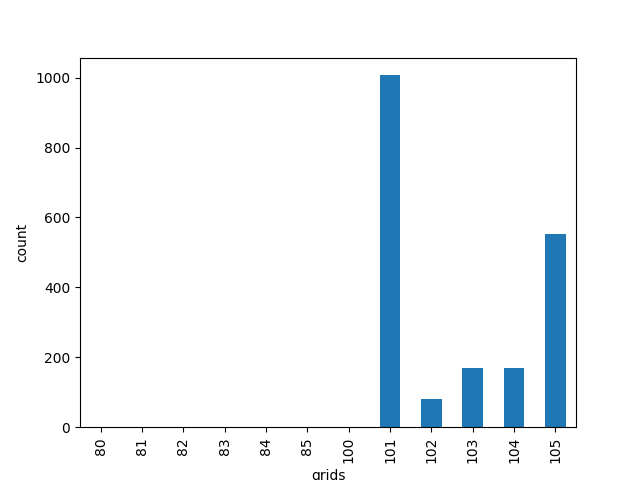
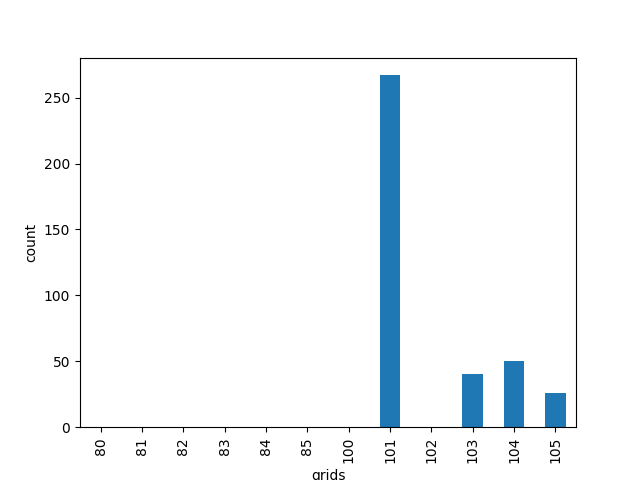
mod

diff --git a/assignment_2/frequency.py b/assignment_2/frequency.py
@@ -7,14 +7,10 @@ import matplotlib.pyplot as plt
 
 if __name__ == "__main__":
 
-    # d = {'1':0, "2":3}
-    # d['5'] = 3
-    # print(d)    
-
     d = {}
 
     s = datetime(2021,9,20)
-    e = datetime(2021,9,23)
+    e = datetime(2021,9,21)
     df = pd.read_csv("book_with_grids.csv")
     grids = [80, 81, 82, 83, 84, 85, 100, 101, 102, 103, 104, 105]
 
@@ -29,7 +25,8 @@ if __name__ == "__main__":
         count = 0
         for field in fields:
             ldf = util.get_lfdf(field, s, e, list(df[df['grid']==grid]['device_id']))
-            count += len(ldf)
+            if isinstance(ldf, pd.DataFrame):
+                count += len(ldf)
 
         d[str(grid)] = count
         
